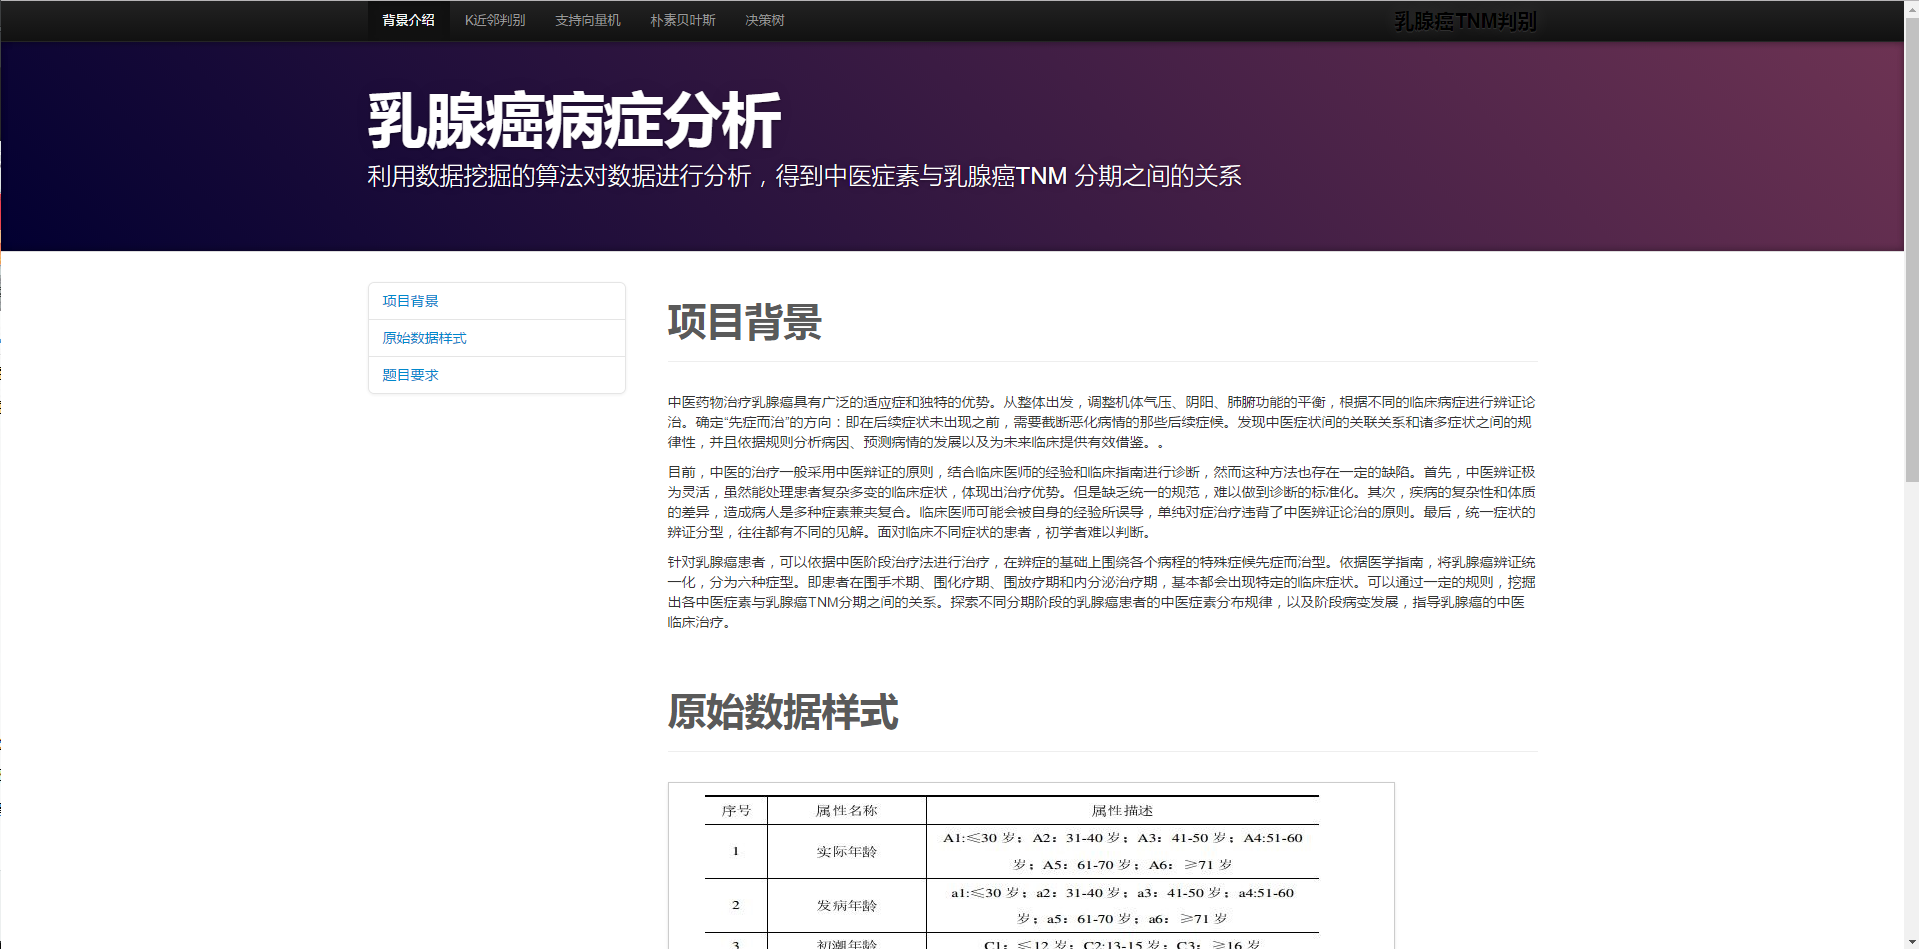
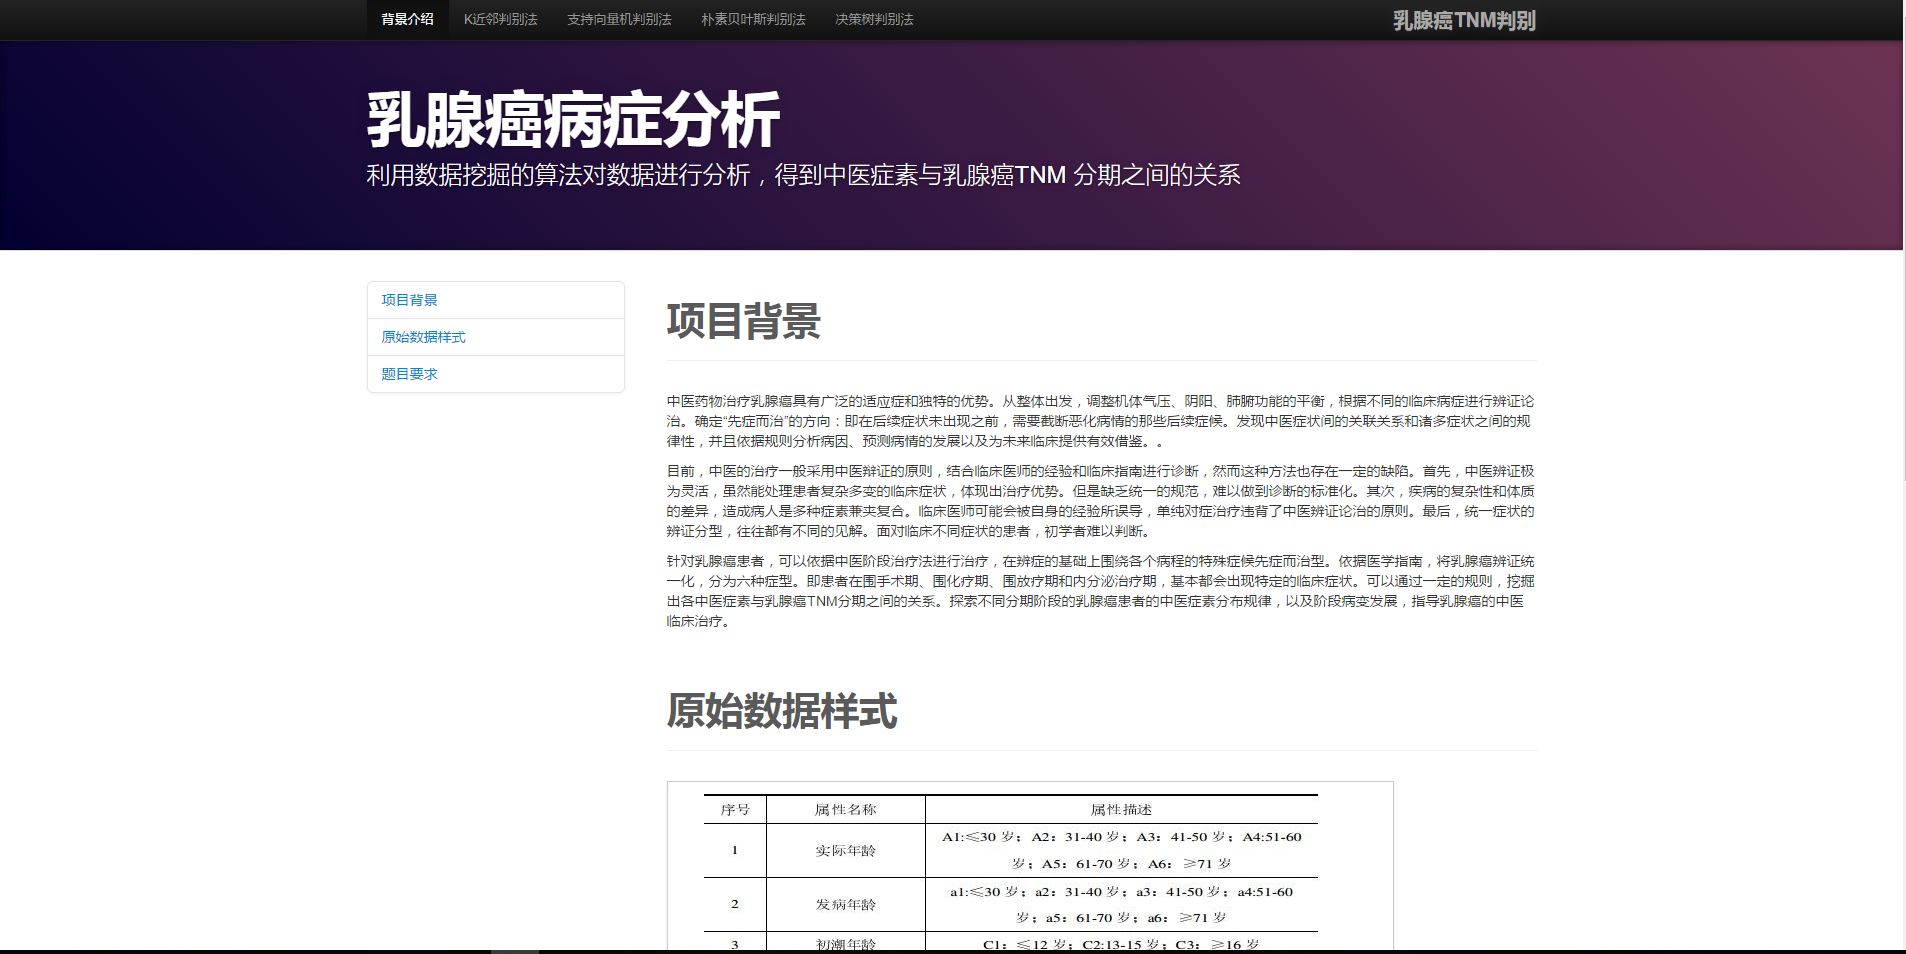
update demoes

diff --git a/README.md b/README.md
@@ -18,7 +18,7 @@
 >- 2.利用数据挖掘的算法对数据进行分析，得到中医症素与乳腺癌TNM 分期之间的关系。根据实际的业务分析建议最小支持度设定为：6%，最小置信度为：75%；
 >- 3.对所构建的模型进行分析，得出你的结论。
 
-## Demo v0.1：
+## Demo v0.2：
 - 背景介绍
 
 ![demo](https://raw.githubusercontent.com/serea/DataMiningProject/master/demo.png)
